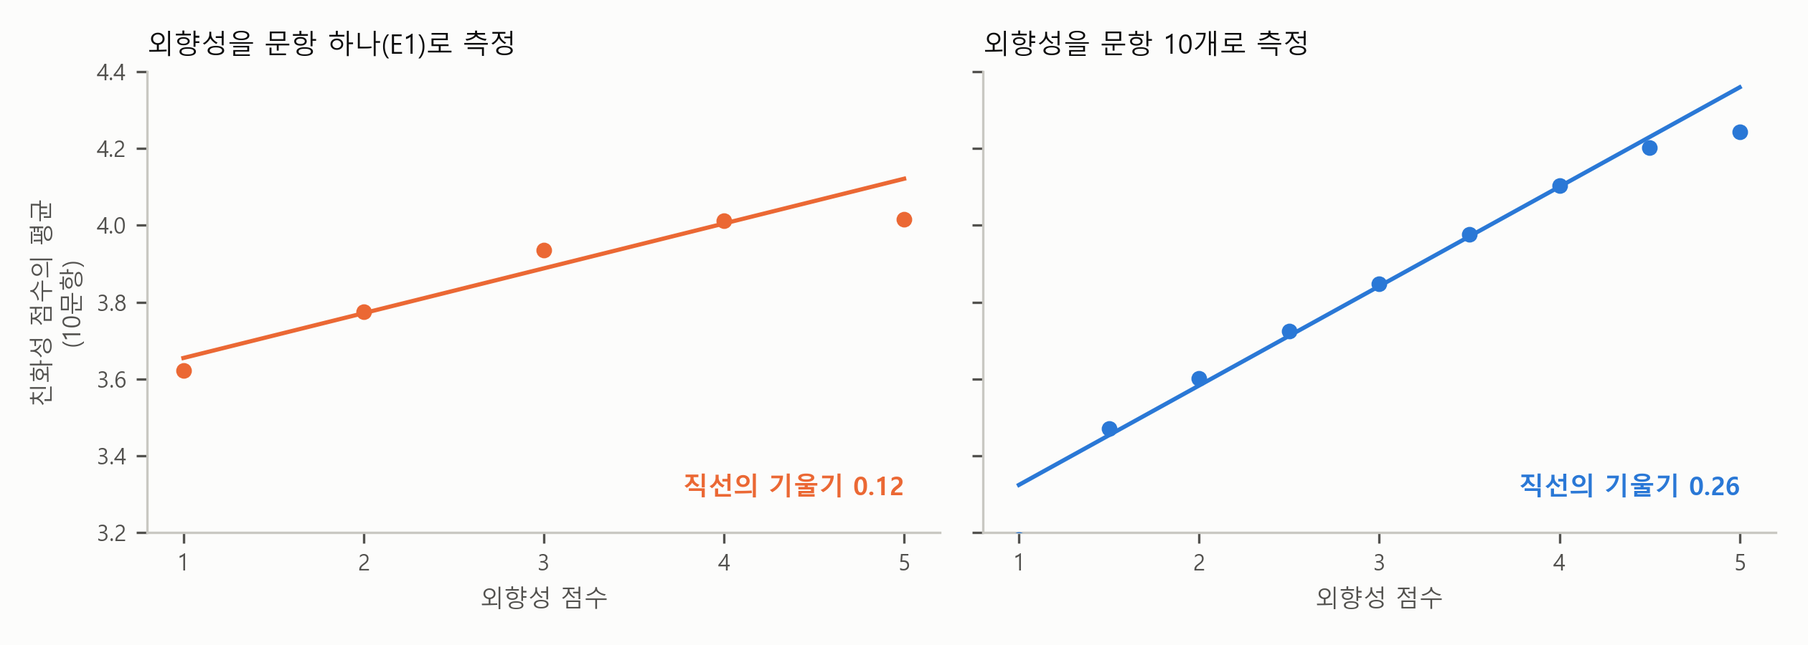
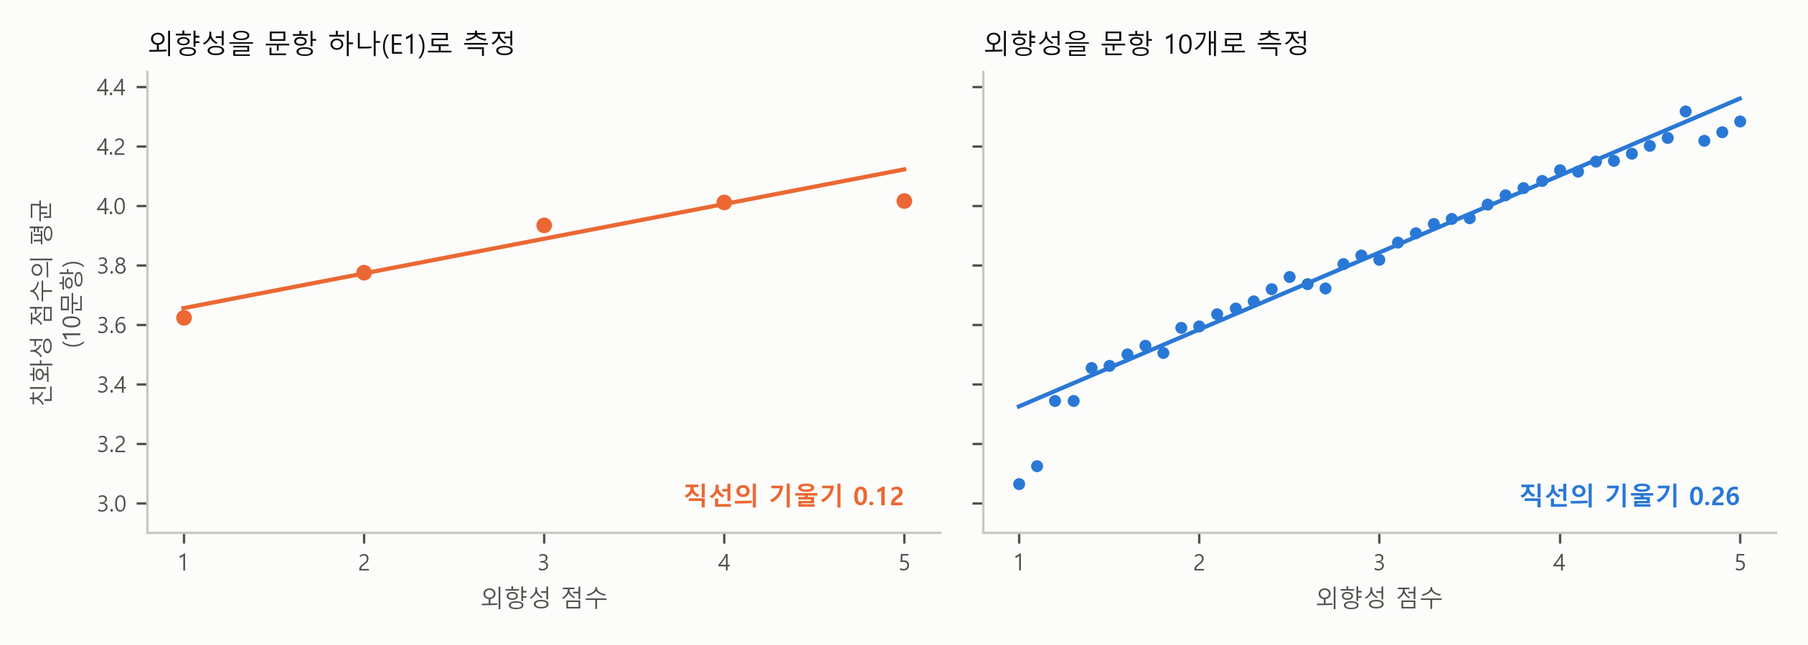
Survey measurement: section 5 after the author's sentence review, new titles for sections 4 and 5
Section 5: figure M5-1 with one dot per score value, table M5-1 with the
one-item row, new four-employee example (habits unrelated to true values),
Harman box and causality paragraph removed. Titles of sections 4 and 5 and
the chapter blurb reworded.

diff --git a/survey-measurement/section-m5.md b/survey-measurement/section-m5.md
@@ -1,90 +1,88 @@
-# 5. 측정이 거칠면 관계가 약해진다 — 감쇠와 설문의 함정
+# 5. 관계가 약하게도, 강하게도 보인다 — 감쇠와 공통방법편향
 
-지금까지 이 장은 설문으로 개념 하나를 측정하는 일을 다뤘습니다. 문항 여러 개를 모으고(2절), 그 문항들이 함께 움직이는지 확인하고(3절), 함께 움직이는 문항끼리 묶으면 어떤 묶음이 나오는지 보았습니다(4절). 설문 연구는 대개 여기서 끝나지 않습니다. 그렇게 만든 척도 점수를 회귀식에 넣어, 외향성과 친화성, 직무 만족과 이직 의도처럼 개념과 개념의 관계를 묻습니다. 이 절은 그 단계에서 생기는 두 가지 문제를 봅니다.
+지금까지 이 장은 설문으로 개념 하나를 측정하는 일을 다뤘습니다. 문항 여러 개를 모으고(2절), 그 문항들이 함께 움직이는지 확인하고(3절), 함께 움직이는 문항끼리 묶으면 어떤 묶음이 나오는지 보았습니다(4절). 설문 연구는 대개 여기서 끝나지 않습니다. 그렇게 만든 척도 점수를 회귀식에 넣어, 외향성과 친화성, 직무 만족과 이직 의도처럼 개념과 개념 사이의 관계를 묻습니다. 이 절은 그 단계에서 생기는 두 가지 문제를 봅니다.
 
-보고서는 개념끼리의 관계를 다루지 않았으므로, 첫째 문제는 보고서 밖의 이야기입니다. 둘째 문제는 보고서 한계의 셋째 줄에 있습니다.
+첫째는 관계가 실제보다 약하게 보이는 문제입니다. 보고서는 개념과 개념 사이의 관계를 다루지 않았으므로, 이 문제는 보고서에 나오지 않습니다. 둘째는 관계가 실제보다 강하게 보이는 문제입니다. 이 문제는 보고서 한계의 셋째 줄에 나옵니다.
 
 > 같은 사람이 한 번에 50문항에 답했으므로, 답하는 버릇(무엇에나 "동의"하는 경향) 때문에 문항들이 실제보다 더 함께 움직인 것으로 보일 수 있다.
 
-미리 답부터 말하면, **개념을 문항 하나로 거칠게 측정하면 다른 개념과의 관계가 실제보다 약하게 보입니다. 반대로 같은 사람이 같은 설문에서 답한 두 척도는, 답하는 버릇 때문에 관계가 실제보다 강하게 보일 수 있습니다.** 측정의 문제는 숫자를 어느 쪽으로든 틀어지게 할 수 있습니다.
+미리 답부터 말하면, **개념을 문항 하나로 거칠게 측정하면 다른 개념과의 관계가 실제보다 약하게 보입니다. 반대로 같은 사람이 같은 설문에서 답한 두 척도는, 답하는 버릇 때문에 관계가 실제보다 강하게 보일 수 있습니다.**
 
-## 한 문제 점수로 대학 성적을 맞히면
+## 문제 하나로 실력을 측정하면
 
-시험 문제와 실력으로 마지막으로 돌아가 봅시다. 고등학교 수학 실력이 대학의 수학 성적과 얼마나 관계가 있는지 알고 싶다고 해 봅시다. 고등학교 수학 실력을 시험 한 번, 그것도 문제 하나로 측정했다면 어떤 결과가 나올까요?
+이번에도 시험 문제의 예로 시작합니다. 고등학교 수학 실력이 대학의 수학 성적과 얼마나 관계가 있는지 알고 싶다고 해 봅시다. 대학 수학 성적은 한 학기 성적이라 믿을 만하다고 합시다. 이에 반해 고등학교 수학 실력을 시험 한 번, 그것도 문제 하나로 측정했다면 어떤 결과가 나올까요?
 
-문제 하나를 맞힌 학생 가운데에는 실력이 좋은 학생도 있지만 찍어서 맞힌 학생도 섞여 있습니다. 틀린 학생 가운데에도 실수로 틀린 실력 있는 학생이 있습니다. 그러니 "맞힌 학생"과 "틀린 학생"의 대학 성적을 비교하면, 두 그룹의 실력 차이가 실제보다 작아서 대학 성적의 차이도 작게 나옵니다. 고등학교 수학 실력이 대학 성적과 별 관계가 없는 것처럼 보이는 것입니다. 실력이 대학 성적과 관계가 없어서가 아니라, 실력을 거칠게 측정해서입니다. 문제를 스무 개 내서 실력을 측정하면, 찍기와 실수의 운이 상쇄되어 관계가 제 크기에 가깝게 드러납니다.
+문제 하나를 맞힌 학생 가운데에는 실력이 좋은 학생도 있지만 찍어서 맞힌 학생도 섞여 있습니다. 틀린 학생 가운데에도 실수로 틀린 실력 있는 학생이 있습니다. 그러니 맞힌 학생들과 틀린 학생들은 실력 차이가 크지 않습니다. 두 그룹의 대학 수학 성적을 비교해도 차이가 작게 나옵니다. 고등학교 수학 실력이 대학 수학 성적과 별 관계가 없는 것처럼 보이는 것입니다. 고등학교 실력이 대학 수학 성적과 관계가 없어서가 아니라, 실력을 거칠게 측정해서입니다. 문제를 스무 개 내서 실력을 측정하면, 찍기와 실수의 운이 상쇄되어 관계가 제 크기에 더 가깝게 드러납니다.
 
 ## 외향성을 문항 하나로 측정하면
 
-같은 일이 이 장의 자료에서도 일어납니다. 외향적인 사람일수록 친화성도 조금 높은 경향이 있는지 보려고, 친화성 척도 점수(10문항의 평균)를 종속변수로, 외향성 점수를 설명변수로 회귀분석을 했습니다. 그림 5-1의 왼쪽 패널은 외향성을 문항 하나(E1 "나는 모임의 분위기를 띄우는 사람이다")로 측정했을 때이고, 오른쪽 패널은 외향성을 문항 10개의 척도 점수로 측정했을 때입니다. 점은 외향성 점수가 같은 사람들의 친화성 평균이고, 직선은 회귀직선입니다.
+같은 일이 이 장의 자료에서도 일어납니다. 외향적인 사람일수록 친화성도 조금 높은 경향이 있는지 보려고 합니다. 친화성 점수를 종속변수로, 외향성 점수를 설명변수로 회귀분석을 했습니다. 그림 5-1의 왼쪽 패널은 외향성을 문항 하나(E1 "나는 모임의 분위기를 띄우는 사람이다")로 측정했을 때이고, 오른쪽 패널은 외향성을 문항 10개의 척도 점수로 측정했을 때입니다. 친화성 점수는 두 패널 모두 문항 10개의 평균인 척도 점수입니다.
 
 ![외향성의 측정과 회귀직선의 기울기](fig_m5_1_attenuation.png)
 
-**그림 5-1.** 외향성을 문항 하나로 측정할 때(왼쪽)와 문항 10개로 측정할 때(오른쪽), 친화성 점수와의 관계. 점은 외향성 점수가 같은 사람들의 친화성 평균이다(오른쪽은 외향성 점수를 0.5 간격으로 묶었고, 100명 미만인 칸은 그리지 않았다).
+**그림 5-1.** 외향성을 문항 하나로 측정할 때(왼쪽)와 문항 10개로 측정할 때(오른쪽), 친화성 점수와의 관계. 점은 외향성 점수가 같은 사람들의 친화성 평균이다(왼쪽은 E1의 답 1 ~ 5마다, 오른쪽은 척도 점수 1.0, 1.1, …, 5.0마다).
 
-그림에서 보듯이 오른쪽 패널의 직선이 왼쪽보다 훨씬 가파릅니다. 외향성을 10문항으로 측정하면 외향성 점수가 1점 높은 사람의 친화성이 평균 0.26 높고, 문항 하나로 측정하면 0.12 높습니다. 같은 사람들, 같은 친화성인데 외향성을 문항 하나로 측정했다는 이유만으로 기울기가 절반에도 못 미칩니다.
+그림에서 각 패널의 동그라미 점은 외향성 점수가 같은 사람들의 친화성 점수를 평균한 것입니다. 왼쪽 패널에는 점이 5개 있습니다. E1의 답이 1부터 5까지 다섯 가지이기 때문입니다. 예를 들어 맨 오른쪽 점은 E1에 5라고 답한 1,468명의 친화성 평균 4.02입니다. 오른쪽 패널에는 점이 41개 있습니다. 문항 10개의 평균인 척도 점수가 1.0, 1.1, …, 5.0의 41가지 값을 가지기 때문입니다. 직선은 19,718명 모두로 구한 회귀직선입니다.
 
-기울기가 왜 작아질까요? 3절에서 칸 하나만 보면 그 사람을 잘못 짐작할 수 있다고 했습니다. E1에 5를 준 사람 가운데에는 정말 외향적인 사람도 있지만, 외향성은 보통인데 그 문장에만 유난히 "동의"한 사람도 섞여 있습니다. 시험 문제를 찍어서 맞힌 학생과 같습니다. 그런 사람들의 친화성은 보통 수준이니, "E1에 5를 준 사람들"의 친화성 평균이 생각만큼 높지 않습니다. 그림 왼쪽 패널의 맨 오른쪽 점이 직선보다 아래에 있는 것이 그 모습입니다. 반대쪽 끝도 마찬가지입니다. 양쪽 끝이 가운데로 당겨지니 직선이 눕습니다.
+두 패널을 비교하면 오른쪽 패널의 직선이 왼쪽보다 훨씬 가파릅니다. 외향성을 10문항으로 측정하면 외향성 점수가 1점 높은 사람의 친화성이 평균 0.26 높고, 문항 하나로 측정하면 0.12 높습니다. 같은 사람들, 같은 친화성 점수인데 외향성을 문항 하나로 측정했다는 이유만으로 기울기가 절반에도 못 미칩니다.
+
+기울기가 왜 작아질까요? 3절에서 칸 하나만 보면 그 사람을 잘못 짐작할 수 있다고 했습니다. E1에 5를 준 사람 가운데에는 정말 외향적인 사람도 있지만, 외향성은 보통인데 그 문장에만 유난히 "동의"한 사람도 섞여 있습니다. 시험 문제를 찍어서 맞힌 학생과 같습니다. 그런 사람들의 친화성은 보통 수준이니, "E1에 5를 준 사람들"의 친화성 평균이 생각만큼 높지 않습니다. E1에 1을 준 사람들도 마찬가지여서, 친화성 평균이 생각만큼 낮지 않습니다. 그림에서 맨 왼쪽 점과 맨 오른쪽 점의 높이는 오른쪽 패널에서 3.06과 4.28인데, 왼쪽 패널에서는 3.62와 4.02입니다. 양쪽 끝이 가운데로 당겨지니 직선이 눕습니다.
 
 설명변수를 이렇게 거칠게 측정해 회귀 계수가 0 쪽으로 작아지는 것을 횡단면 분석 장에서 **감쇠**(attenuation)라고 불렀습니다. 그 장에서는 평소 식습관 대신 어제 하루의 기록으로 소금 섭취를 측정해 혈압과의 관계가 약하게 보였습니다. 여기서는 외향성을 문항 하나로 측정해 친화성과의 관계가 약하게 보였습니다. 측정의 잡음에 관계가 묻히는 것은 같습니다.
 
 ## 신뢰도가 높을수록 관계가 제 크기에 가까워진다
 
-앞 절들에서 본 크론바흐 $\alpha$가 여기서 다시 등장합니다. 측정이 거친 정도가 곧 신뢰도가 낮은 정도이기 때문입니다. 표 5-1은 외향성을 문항 몇 개로 측정하느냐에 따라 $\alpha$와 기울기가 어떻게 달라지는지를 보인 것입니다.
+3절에서 본 크론바흐 $\alpha$가 여기서 다시 등장합니다. 측정이 거칠다는 것은 곧 신뢰도가 낮다는 것이기 때문입니다. 표 5-1은 외향성을 문항 몇 개로 측정하느냐에 따라 $\alpha$와 기울기가 어떻게 달라지는지를 보인 것입니다.
 
 **표 5-1.** 외향성을 측정한 문항 수와 친화성을 설명하는 기울기
 
 | 외향성을 측정한 문항 수 | 크론바흐 $\alpha$ | 기울기 |
 |---|---|---|
+| 1(E1) | — | 0.12 |
 | 2 | 0.61 | 0.18 |
 | 3 | 0.71 | 0.21 |
 | 5 | 0.80 | 0.23 |
 | 10 | 0.89 | 0.26 |
 
-주: 50문항 모두 답한 19,718명. 종속변수는 친화성 척도 점수(10문항 평균), 설명변수는 외향성 문항 그 수만큼의 평균. 2 ~ 5문항은 그림 3-3처럼 외향성 10문항 가운데 그 수만큼 무작위로 300번 골라 평균했다.
+주: 50문항 모두 답한 19,718명. 종속변수는 친화성 척도 점수(10문항 평균), 설명변수는 외향성 문항 그 수만큼의 평균. 문항이 하나면 $\alpha$를 계산할 수 없다(문항끼리 함께 움직이는 정도로 만드는 숫자이므로). 1문항은 그림 5-1의 E1이고, 2 ~ 5문항은 그림 3-3처럼 외향성 10문항 가운데 그 수만큼 무작위로 300번 골라 평균했다.
 
-표에서 보듯이 $\alpha$가 0.61에서 0.89로 올라가는 동안 기울기도 0.18에서 0.26으로 커집니다. 문항 하나(E1)로 측정했을 때의 기울기는 앞의 그림에서 본 0.12였습니다. 문항이 많아져 운이 상쇄될수록 외향성 점수가 실제 외향성에 가까워지고, 그만큼 친화성과의 관계가 덜 약해집니다. 거꾸로 말하면, $\alpha$가 0.6인 척도로 측정한 변수를 회귀식에 넣으면 그 변수의 계수는 실제보다 꽤 작게 나올 수 있습니다. 신뢰도는 측정을 믿을 수 있는지의 문제일 뿐 아니라, 그 척도로 얻은 회귀 계수가 얼마나 작아져 있는지의 문제이기도 합니다.
+표에서 보듯이 문항이 하나에서 10개로 늘어나는 동안 기울기는 0.12에서 0.26으로 커집니다. 문항이 2개 이상인 행에서는 $\alpha$도 0.61에서 0.89로 함께 올라갑니다. 문항이 많아져 운이 상쇄될수록 외향성 점수가 실제 외향성에 가까워지고, 그만큼 친화성과의 관계가 덜 약해집니다. 거꾸로 말하면, $\alpha$가 0.6인 척도로 측정한 변수를 회귀식에 넣으면 그 변수의 계수는 실제보다 꽤 작게 나올 수 있습니다. 신뢰도가 낮으면 척도 점수만 덜 믿을 만해지는 것이 아닙니다. 그 척도로 얻은 회귀 계수도 실제보다 작아집니다.
 
-이것은 학생들이 하는 설문 연구에서 특히 기억해 둘 만합니다. 설문지가 길어지는 것이 부담스러워 개념 하나를 문항 하나나 둘로 묻는 경우가 많기 때문입니다. 그렇게 측정한 변수가 회귀분석에서 "유의하지 않다"고 나왔다면, 관계가 없어서일 수도 있지만 측정이 거칠어 관계가 작게 보였을 수도 있습니다.
-
-외향성과 친화성의 관계가 어느 쪽이 원인인지, 아니면 둘 다 다른 무엇의 결과인지는 이 자료로 가릴 수 없습니다. 여기서 본 것은 관계의 크기가 측정에 따라 달라진다는 것뿐입니다.
+이것은 설문 연구를 직접 할 때 특히 기억해 둘 만합니다. 설문지가 길어지는 것이 부담스러워 개념 하나를 문항 하나나 둘로 묻는 경우가 많기 때문입니다. 그렇게 측정한 변수가 회귀분석에서 "유의하지 않다"고 나왔다면, 관계가 없어서일 수도 있지만 측정이 거칠어 관계가 작게 보였을 수도 있습니다.
 
 > **참고:**
-> 4절에서 이름만 본 구조방정식 모형이 설문 연구에서 널리 쓰이는 까닭 가운데 하나가 감쇠입니다. 구조방정식 모형은 문항들 뒤의 요인으로 개념을 측정하므로, 문항마다의 몫 때문에 관계가 약해지는 것을 어느 정도 바로잡을 수 있습니다.
+> 4절에서 잠깐 소개한 구조방정식 모형이 설문 연구에서 널리 쓰이는 까닭 가운데 하나가 감쇠입니다. 구조방정식 모형은 척도 점수 대신 문항들 뒤의 요인을 변수로 삼아, 요인과 요인 사이의 관계를 추정합니다. 문항마다의 몫은 측정 오차로 따로 떼어 내므로, 측정 오차 때문에 계수가 작아지는 것을 바로잡을 수 있습니다. 다만 어느 문항이 어느 요인에 드는지를 정한 모형이 자료에 맞을 때에만 그렇습니다.
 
 💡 **팁:** 설문으로 만든 척도를 회귀분석에 넣을 때는 AI에게 척도마다의 크론바흐 $\alpha$를 회귀 결과와 함께 보여 달라고 요청하세요. "회귀식에 들어간 척도 변수마다 문항 수와 크론바흐 알파를 표로 함께 보여 주고, 알파가 0.7보다 낮은 변수는 측정 오차 때문에 계수가 작게 나왔을 수 있다는 점을 한계에 적어 줘." 문항 하나로 측정한 변수가 있다면 그 사실도 밝히게 합니다.
 
-## 같은 사람이 같은 설문에 답하면 — 공통방법편향
+## 두 변수를 같은 설문에서 얻으면 — 공통방법편향
 
-이제 반대 방향의 문제입니다. 회사 직원들에게 설문지 한 장을 돌려 직무 만족과 조직 몰입을 함께 물었다고 해 봅시다. 두 척도의 점수를 회귀분석했더니 관계가 아주 강하게 나왔습니다. 만족하는 직원일수록 몰입한다는 결론을 내려도 될까요?
+이제 반대 방향의 문제입니다. 설문 연구는 대개 설명변수와 종속변수를 같은 설문지 하나에서 얻습니다. 회사 직원들에게 설문지 한 장을 돌려 직무 만족과 조직 몰입을 함께 물었다고 해 봅시다. 두 척도의 점수를 회귀분석했더니 관계가 아주 강하게 나왔습니다. 만족하는 직원일수록 몰입한다는 결론을 내려도 될까요?
 
 조심할 점이 있습니다. 두 척도 모두 같은 사람이, 같은 시간에, 같은 설문지에서 답했습니다. 그 사람의 답하는 버릇은 두 척도 모두에 똑같이 들어갑니다. 2절에서 본 것처럼 무엇에나 약간씩 "동의" 쪽으로 답하는 사람이 있고, 회사 설문이니 좋게 보이도록 답하는 사람도 있고, 설문하던 날 기분이 좋아 모든 것을 후하게 답한 사람도 있습니다. 그런 사람은 직무 만족도 높게, 조직 몰입도 높게 답합니다. 실제 만족과 몰입이 관계가 없더라도, 답하는 버릇 하나 때문에 두 점수가 함께 움직입니다. 그래서 관계가 실제보다 강하게 보입니다.
 
-가공의 직원 네 명으로 보겠습니다. 표 5-2의 왼쪽 두 열은 네 사람의 실제 만족과 몰입입니다. 만족이 높은 가빈과 다희 가운데 한 사람은 몰입이 높고 한 사람은 낮습니다. 만족이 낮은 나윤과 라진도 그렇습니다. 실제로는 만족과 몰입이 따로 움직이고, 상관계수는 0입니다.
+가공의 직원 네 명으로 보겠습니다. 표 5-2의 "실제 만족"과 "실제 몰입" 열은 네 사람의 실제 값입니다. 만족이 높은 가빈과 다희 가운데 한 사람은 몰입이 높고 한 사람은 낮습니다. 만족이 낮은 나윤과 라진도 그렇습니다. 실제로는 만족과 몰입이 따로 움직이고, 상관계수는 0입니다.
 
 **표 5-2.** 네 직원의 실제 값과 설문에 답한 값(가공의 예)
 
 | | 실제 만족 | 실제 몰입 | 답하는 버릇 | 답한 만족 | 답한 몰입 |
 |---|---|---|---|---|---|
-| 가빈 | 4 | 4 | 무엇에나 한 칸 높게 | 5 | 5 |
-| 나윤 | 2 | 4 | 없음 | 2 | 4 |
-| 다희 | 4 | 2 | 없음 | 4 | 2 |
-| 라진 | 2 | 2 | 무엇에나 한 칸 낮게 | 1 | 1 |
+| 가빈 | 3 | 3 | 무엇에나 한 칸 높게 | 4 | 4 |
+| 나윤 | 2 | 3 | 없음 | 2 | 3 |
+| 다희 | 3 | 2 | 없음 | 3 | 2 |
+| 라진 | 2 | 2 | 무엇에나 한 칸 높게 | 3 | 3 |
 
-그런데 가빈은 무엇에나 한 칸 높게 답하는 버릇이 있고, 라진은 무엇에나 한 칸 낮게 답하는 버릇이 있습니다. 그래서 설문에 답한 값은 오른쪽 두 열처럼 됩니다. 가빈은 만족도 몰입도 5가 되고, 라진은 둘 다 1이 됩니다. 답한 값으로 계산하면 만족과 몰입의 상관계수는 0.6입니다. 실제로는 관계가 없는데, 두 사람의 버릇이 두 점수에 똑같이 들어가서 관계가 생긴 것입니다.
+그런데 가빈과 라진은 무엇에나 한 칸 높게 답하는 버릇이 있습니다. 실제 만족과 몰입은 가빈이 높고 라진이 낮지만, 버릇은 같습니다. 표의 "답한 만족"과 "답한 몰입" 열이 네 사람이 설문에 답한 값입니다. 가빈은 만족과 몰입 모두 실제 값 3보다 한 칸 높은 4라고 답했고, 라진은 둘 다 실제 값 2보다 한 칸 높은 3이라고 답했습니다. 답한 값으로 계산하면 만족과 몰입의 상관계수는 0.5입니다. 실제로는 관계가 없는데, 두 사람의 버릇이 두 점수에 똑같이 들어가서 관계가 생긴 것입니다. 두 사람의 버릇이 한 칸 낮게 답하는 것이었어도 상관계수는 똑같이 0.5입니다. 관계를 만드는 것은 버릇의 방향이 아니라, 한 사람의 버릇이 두 점수에 함께 들어간다는 점입니다.
 
 이처럼 두 변수를 같은 방법(같은 사람의 같은 설문)으로 측정해서 생기는 편향을 **공통방법편향**(common method bias)이라고 부릅니다. 측정이 거칠어 관계가 약하게 보이는 감쇠와 방향이 반대입니다. 감쇠는 문항마다 따로 들어간 운 때문에 생기고, 공통방법편향은 두 척도에 똑같이 들어간 버릇 때문에 생깁니다. 따로 들어간 운은 관계를 흐리고, 똑같이 들어간 버릇은 없는 관계까지 만들어 냅니다.
 
-보고서 한계의 셋째 줄이 걱정한 것도 이것입니다. 이 장의 50문항도 같은 사람이 한 번에 답했으므로, 답하는 버릇이 문항끼리 함께 움직이는 데 조금 들어 있을 수 있습니다. 다만 이 장의 결과는 문항들이 성격별로 다섯 묶음으로 또렷이 나뉜 것이라, 모든 문항에 똑같이 들어가는 버릇만으로는 그런 모양이 나오기 어렵습니다. 공통방법편향은 서로 다른 두 개념의 관계를 물을 때 더 걱정해야 하는 문제입니다.
+보고서 한계의 셋째 줄이 걱정한 것도 이것입니다. 이 장의 50문항도 같은 사람이 한 번에 답했으므로, 문항들이 함께 움직인 데에는 답하는 버릇의 몫도 조금 들어 있을 수 있습니다. 다만 이 장의 결과는 문항들이 성격별로 다섯 묶음으로 또렷이 나뉜 것이라, 모든 문항에 똑같이 들어가는 버릇만으로는 그런 모양이 나오기 어렵습니다. 공통방법편향은 서로 다른 두 개념의 관계를 물을 때 더 걱정해야 하는 문제입니다.
 
-연구자들이 이 문제를 줄이려고 쓰는 방법은 대개 설계 단계의 것입니다.
+연구자들은 이 문제를 줄이는 방법을 대개 설문을 설계하는 단계에서 씁니다.
 
 - **두 변수를 다른 출처에서 얻는다.** 직무 만족은 직원에게 묻고, 성과는 상사의 평가나 실제 매출 기록에서 가져옵니다. 버릇이 두 변수에 함께 들어가지 않습니다.
-- **두 변수를 다른 때에 묻는다.** 직무 만족은 이번 달에, 이직 의도는 석 달 뒤에 묻습니다. 그날의 기분이 두 답에 함께 들어가지 않습니다.
-- **설문지를 설계할 때 줄인다.** 익명을 보장해 좋게 보이려는 답을 줄이고, 2절에서 본 것처럼 역문항을 섞어 무엇에나 "동의"하는 버릇이 한쪽으로 쌓이지 않게 합니다.
-
-> **참고:**
-> 논문이나 보고서에서는 **하만 단일요인검정**(Harman's single-factor test)이라는 이름도 자주 만납니다. 모든 척도의 문항을 한꺼번에 넣고 회전하지 않은 요인분석을 해서, 첫 요인 하나가 문항들의 흩어짐을 대부분 설명하는지 보는 것입니다. 답하는 버릇이 모든 문항을 지배한다면 요인 하나가 거의 다를 설명할 것이라는 생각입니다. 첫 요인이 절반 넘게 설명하면 공통방법편향을 의심한다는 기준이 흔히 쓰입니다. 하지만 이 검정을 통과했다고 공통방법편향이 없다는 증거가 되지는 않는다는 비판도 많습니다. 버릇이 관계를 부풀리기에는 충분하면서도 요인 하나가 절반을 넘지는 않을 수 있기 때문입니다. 보고서에서 이 검정을 만나면 "점검은 했구나" 정도로 받아들이고, 두 변수를 어떻게 측정했는지(같은 사람의 같은 설문인지)를 직접 확인하는 편이 낫습니다.
+- **두 변수를 다른 시점에 묻는다.** 직무 만족은 이번 달에, 이직 의도는 석 달 뒤에 묻습니다. 그날의 기분이 두 답에 함께 들어가지 않습니다.
+- **설문지에 버릇이 덜 들어가게 한다.** 누가 답했는지 알 수 없게 하면, 좋게 보이려고 실제와 다르게 답하는 일이 줄어듭니다. 2절에서 본 것처럼 역문항을 섞으면, 무엇에나 "동의"하는 버릇이 한쪽으로 쌓이지 않습니다.
 
 > **요약 — 이 절의 물음과 답**
 >
@@ -98,11 +96,11 @@
 - **표 아래 주**(2절): "역문항은 6에서 답을 빼서 뒤집은 뒤"와 "척도 점수는 문항 10개의 평균"은 보이지 않는 개념을 측정하는 첫 단계입니다. 답을 뒤집지 않으면 모두가 보통 사람이 됩니다.
 - **요약 첫 줄과 셋째 줄**(3절): 크론바흐 $\alpha$ 0.79 ~ 0.89는 문항들이 함께 움직이는 정도와 문항 수가 함께 만든 숫자이고, 기준 0.7은 관행입니다. "일관되게 답했다"와 "맞게 측정했다"의 차이가 신뢰도와 타당도의 차이입니다.
 - **요약 둘째 줄과 그림**(4절): 같은 성격의 문항끼리 함께 움직여 다섯 덩어리를 이룹니다. 요인분석은 어느 문항이 어느 성격인지 모르는 채로 다섯 묶음을 찾았고, 그 묶음이 정해 둔 다섯 성격과 꼭 맞았습니다.
-- **한계의 셋째 줄**(5절): 같은 사람이 같은 설문에 답할 때 버릇이 두 점수에 함께 들어가는 것을 걱정한 문장입니다.
+- **한계의 셋째 줄**(5절): 같은 사람이 한 번에 답할 때 답하는 버릇이 문항들에 함께 들어가는 것을 걱정한 문장입니다. 이 문제는 두 척도의 관계를 물을 때 더 커집니다.
 
-여러분이 직접 설문을 하고 분석한다면, 이 장의 순서가 그대로 분석의 순서입니다. 채점 키대로 역문항의 답을 뒤집고, 척도 점수를 만들고, 크론바흐 $\alpha$로 문항들이 함께 움직이는지 확인하고, 요인분석으로 문항이 생각한 대로 묶이는지 보고, 그다음에야 척도 점수를 회귀식에 넣습니다. 이 계산은 모두 AI가 금방 해 줍니다. 그러나 사람이 해야 하는 일이 셋 있습니다. 어느 문항이 역문항인지는 자료의 숫자에 적혀 있지 않습니다. 요인이 몇 개인지와 요인의 이름은 문항을 읽어 본 사람이 정합니다. 두 척도의 관계가 답하는 버릇에 부풀었을지는 설문을 어떻게 했는지 아는 사람만 따질 수 있습니다.
+여러분이 직접 설문을 하고 분석한다면, 이 장의 순서가 그대로 분석의 순서입니다. 채점 키대로 역문항의 답을 뒤집고, 척도 점수를 만들고, 크론바흐 $\alpha$로 문항들이 함께 움직이는지 확인하고, 요인분석으로 문항이 생각한 대로 묶이는지 보고, 그다음에야 척도 점수를 회귀식에 넣습니다. 이 계산은 모두 AI가 금방 해 줍니다. 그러나 사람이 해야 하는 일이 셋 있습니다. 어느 문항이 역문항인지는 자료의 숫자에 적혀 있지 않습니다. 요인이 몇 개인지와 요인의 이름은 문항을 읽어 본 사람이 정합니다. 두 척도의 관계가 답하는 버릇 때문에 부풀었는지는 설문을 어떻게 했는지 아는 사람만 따질 수 있습니다.
 
-측정은 회귀분석의 앞 단계라서 결과표에는 잘 드러나지 않습니다. 하지만 측정이 거칠면 관계는 약하게 보이고, 같은 버릇이 섞이면 강하게 보입니다. 계수 하나를 믿기 전에 그 변수를 어떻게 측정했는지부터 보는 습관이 이 장이 남기려는 것입니다.
+측정은 회귀분석의 앞 단계라서 결과표에는 잘 드러나지 않습니다. 하지만 측정이 거칠면 관계는 약하게 보이고, 같은 버릇이 섞이면 강하게 보입니다. 이 장에서 가져갈 것은, 계수 하나를 믿기 전에 그 변수를 어떻게 측정했는지부터 보는 습관입니다.
 
 > AI의 보고서가 설문 척도를 쓰면, 역문항의 답을 뒤집었는지와 크론바흐 $\alpha$부터 본다.
 

diff --git a/survey-measurement/section-m1.md b/survey-measurement/section-m1.md
@@ -1,6 +1,6 @@
 # 1. 보고서 — 성격 검사 50문항은 다섯 성격을 일관되게 측정하나
 
-이번 장의 주제는 **설문으로 측정하기**입니다. 만족도, 외향성, 직무 몰입, 브랜드 신뢰처럼 자를 대거나 개수를 셀 수 없는 개념을 설문 문항 여러 개로 측정하고, 그 측정을 믿을 수 있는지 확인하는 방법입니다. 연구 논문이나 수업 과제로 설문조사를 하는 학생이 많습니다. 경영학, 심리학, 사회학, 교육학의 설문 연구는 대개 이 단계를 거친 뒤에 회귀분석으로 넘어갑니다. 기업도 같은 일을 합니다. 고객 만족도 조사, 직원 몰입도 조사, 입사 지원자의 인성 검사가 모두 문항 여러 개로 보이지 않는 것을 측정합니다. 이런 연구의 보고서에는 흔히 "크론바흐 $\alpha$ = 0.87", "요인 적재값 0.4 이상" 같은 표현이 나옵니다.
+이번 장의 주제는 **설문으로 측정하기**입니다. 만족도, 외향성, 직무 몰입, 브랜드 신뢰처럼 자를 대거나 개수를 셀 수 없는 개념을 설문 문항 여러 개로 측정하고, 그 측정을 믿을 수 있는지 확인하는 방법입니다. 설문조사는 연구 논문과 수업 과제에서 널리 쓰입니다. 경영학, 심리학, 사회학, 교육학의 설문 연구는 대개 이 단계를 거친 뒤에 회귀분석으로 넘어갑니다. 기업도 같은 일을 합니다. 고객 만족도 조사, 직원 몰입도 조사, 입사 지원자의 인성 검사가 모두 문항 여러 개로 보이지 않는 것을 측정합니다. 이런 연구의 보고서에는 흔히 "크론바흐 $\alpha$ = 0.87", "요인 적재값 0.4 이상" 같은 표현이 나옵니다.
 
 이번 장이 묻는 것은 두 가지입니다. 설문 문항 여러 개로 변수 하나를 어떻게 만드는가, 그리고 그렇게 만든 변수를 믿어도 되는가입니다. 이번 장의 예시는 성격 검사입니다. 문항 10개의 답으로 한 사람의 외향성을 측정하는 예입니다.
 
@@ -126,7 +126,7 @@
 
 - **문항 여러 개로 개념 하나를** — 외향성처럼 보이지 않는 개념을 왜 문항 여러 개로 측정하는가. 척도 점수는 어떻게 만드는가. 역문항의 답을 뒤집지 않으면 무슨 일이 생기는가. 표의 역문항 열과 주.
 - **함께 움직이는가** — 크론바흐 $\alpha$는 어떤 숫자인가. 문항이 많을수록 $\alpha$가 왜 커지는가. 기준 0.7은 어디서 왔고 무엇을 말해 주지 않는가. 요약의 첫 줄과 셋째 줄, 표의 $\alpha$ 열, 해석의 첫 항목, 한계의 둘째 줄.
-- **저절로 다섯 묶음으로 나뉘나** — 요인분석은 무엇을 하는가. 요인분석이 찾은 묶음은 정해 둔 다섯 성격과 맞는가. 요인과 적재값은 무엇인가. 요약의 둘째 줄, 그림, 해석의 둘째 항목.
-- **측정이 거칠면 관계가 약해진다** — 문항 하나로 측정한 변수를 회귀식에 넣으면 무슨 일이 생기는가. 같은 사람이 같은 설문에 답한 두 변수의 관계는 믿을 수 있는가. 한계의 셋째 줄, 그리고 이 장을 마치며.
+- **알려 주지 않아도 성격별로 묶이나** — 요인분석은 무엇을 하는가. 요인분석이 찾은 묶음은 정해 둔 다섯 성격과 맞는가. 요인과 적재값은 무엇인가. 요약의 둘째 줄, 그림, 해석의 둘째 항목.
+- **관계가 약하게도, 강하게도 보인다** — 문항 하나로 측정한 변수를 회귀식에 넣으면 무슨 일이 생기는가. 같은 설문에서 얻은 두 변수의 관계는 믿을 수 있는가. 한계의 셋째 줄, 그리고 이 장을 마치며.
 
 네 절을 지나면 이 보고서의 모든 줄을 이해할 수 있습니다. 그리고 여러분이 자기 설문 자료로 같은 분석을 요청할 때, 이 보고서가 본보기가 될 것입니다.

diff --git a/survey-measurement/index.md b/survey-measurement/index.md
@@ -1,6 +1,6 @@
 # 설문으로 측정하기 — 문항 여러 개로 개념 하나를
 
-온라인 성격 검사에 답한 19,718명의 자료로 문항 50개가 다섯 가지 성격을 일관되게 측정하는지 분석한다. 척도와 역문항, 크론바흐 α, 요인분석, 측정이 거칠 때 약해 보이는 관계와 같은 설문의 함정을 차례로 본다.
+온라인 성격 검사에 답한 19,718명의 자료로 문항 50개가 다섯 가지 성격을 일관되게 측정하는지 분석한다. 척도와 역문항, 크론바흐 α, 요인분석, 측정에 따라 관계가 약하게도 강하게도 보이는 문제(감쇠와 공통방법편향)를 차례로 본다.
 
 ## 이 장을 읽는 법
 
@@ -15,6 +15,6 @@ Open Psychometrics Project가 공개한 성격 검사 원자료(BIG5.zip — IPI
 - 1\. 보고서 — 성격 검사 50문항은 다섯 성격을 일관되게 측정하나 (준비 중)
 - 2\. 문항 여러 개로 개념 하나를 — 척도와 역문항 (준비 중)
 - 3\. 함께 움직이는가 — 크론바흐 $\alpha$와 문항 수 (준비 중)
-- 4\. 저절로 다섯 묶음으로 나뉘나 — 요인분석 (준비 중)
-- 5\. 측정이 거칠면 관계가 약해진다 — 감쇠와 설문의 함정 (준비 중)
+- 4\. 알려 주지 않아도 성격별로 묶이나 — 요인분석 (준비 중)
+- 5\. 관계가 약하게도, 강하게도 보인다 — 감쇠와 공통방법편향 (준비 중)
 - 직접 해 보기(프롬프트와 파이썬 노트북) (준비 중)

diff --git a/survey-measurement/section-m4.md b/survey-measurement/section-m4.md
@@ -1,4 +1,4 @@
-# 4. 저절로 다섯 묶음으로 나뉘나 — 요인분석
+# 4. 알려 주지 않아도 성격별로 묶이나 — 요인분석
 
 보고서 요약의 둘째 줄은 이렇습니다.
 
